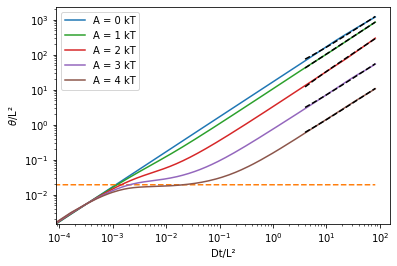
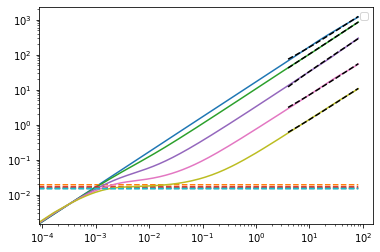
Revert "msd_defaveri+hist+LJ"
This reverts commit 6105f52bd06bb4afc6f391055cd4669590beac69.

Changed region(s): [[0.0, 0.0, 1.0, 0.9722], [0.9263, 0.1389, 0.9553, 0.1667], [0.8974, 0.1667, 0.9263, 0.1944]]

diff --git a/langevin_simu/Periodic Potential/historgram_periodic_potential.py b/langevin_simu/Periodic Potential/historgram_periodic_potential.py
@@ -3,7 +3,7 @@ import matplotlib.pyplot as plt
 import numpy as np
 import sys
 #sys.path.append('/home/antonin/Documents/GitHub/IDIL_Internship_BFM_Langevin_modeling/langevin_simu/')
-from Class_particle_v2_periodic_potential import *
+from Class_particle_v2_drift_diffusion import *
 from scipy.stats import norm
 from scipy.optimize import curve_fit
 
@@ -21,7 +21,7 @@ def generate_mean_traj(N,L,A,torque):
 
 
 def get_trajs(amplitude,dt):
-    trajs = np.load(f'trajectories_10000000points_amplitude_{amplitude}kT_dt_{dt}_torque_0kT.npy')                  
+    trajs = np.load(f'trajectories_10000points_amplitude_0kT_dt_1e-05_torque_20kT.npy')                  
     return trajs
 
 def hist_at_t(amplitude,dt,t):
@@ -30,47 +30,80 @@ def hist_at_t(amplitude,dt,t):
     return matrix_t
 
 
-def total_hist(amplitude,dt):
-    """
-    Combine the whole histogram of every traj in a single one : meaningless
-
-    Parameters
-    ----------
-    amplitude : TYPE
-        DESCRIPTION.
-    dt : TYPE
-        DESCRIPTION.
-
-    Returns
-    -------
-    None.
-
-    """
+def plot_hist(amplitude,dt,i):
     trajs = get_trajs(amplitude,dt)
-    num_bins = 10000
-    accumulated_hist = np.zeros(num_bins)
-    for traj in trajs:
-        hist, _ = np.histogram(traj, bins=num_bins,range=(-np.pi, np.pi))
-        accumulated_hist += hist
-    
-    mean_hist = accumulated_hist*num_bins / (len(trajs)*len(trajs[0]))
-    bins_space = np.linspace(-np.pi,np.pi,num_bins)
-    plt.plot(bins_space,mean_hist)
+    traj = trajs[i]
+    plt.hist(traj,bins = 2600,density=True)
     plt.xlabel('angle [rad]')
     plt.ylabel('density')
     plt.show()
-    
-def hist_at_t(t):
-    trajs = np.load('trajectories_1000000,nb_traj_1000points_amplitude_6kT,frequency_10_dt_0.001_torque_0kT.npy')
-    matrix_t = [trajs[i][t]  for i in range(len(trajs))]
-    return matrix_t
 
-def plot_hist(t):
-    plt.hist(hist_at_t(t),bins = 200,density=True)
-    plt.title(f'Histogram of positions at t={t}ms over 1000 realisations')
-    plt.xlabel('angle [rad]')
-    plt.ylabel('density')
-    plt.show()
+def normal_theory(mu,t,x):
+    part = DiffusionSimulation2()
+    D = part.rotational_einstein_diff
+    t = t*1e-5
+    p_theory = (1/np.sqrt(4*np.pi*D*t))*np.exp(- ((x - mu)**2)/(4*D*t))
+    return p_theory
+
+def normal_longtime_correction(mu,t,x):
+    part = DiffusionSimulation2()
+    D = part.rotational_einstein_diff
+    y = part.rotational_drag
+    t = t*1e-5
+    p_theory = np.sqrt(y/(2*np.pi*D))*np.exp(- (y*x**2)/(2*D))
+    return p_theory
+
+def normal_theory_full_correction(mu,t,x):
+    part = DiffusionSimulation2(dt=1e-5)
+    D = part.rotational_einstein_diff
+    y = part.rotational_drag*1000
+    t = t*1e-5
+    interm = y/(2*D*(1-np.exp(-2*y*t)))
+    p_theory = np.sqrt(y/(2*np.pi*D*(1-np.exp(-2*y*t))))*np.exp(-interm*x**2)
+    return p_theory
+
+                             
+t = 8000
+matrix_at_t = hist_at_t(0,1e-5,t)
+
+plt.hist(matrix_at_t,bins = 150,density=True)
+(mu, sigma) = norm.fit(matrix_at_t)
+xmin, xmax = plt.xlim()
+x = np.linspace(xmin, xmax, 100)
+p = norm.pdf(x, mu, sigma)
+plt.plot(x, p, 'k', linewidth=2, label='Fitted Normal Distribution')    
     
-# A faire: 10000 realisations à 2kT, trouver comment fixer la densité à 1
-    
+plt.plot(x,normal_theory(mu,t,x), linestyle='--', color='red', label='Theoretical Normal Distribution')
+
+plt.title(f'Histogram of positions at t={t*1e-5:.3f}s over 10000 realisations')
+plt.xlabel('angle [rad]')
+plt.ylabel('density')
+plt.legend()
+plt.show()
+
+
+
+"""
+fig, axs = plt.subplots(2, 2, figsize=(10, 10))
+
+times = [0, 100, 1000, 10000]  # Adjust time values as needed
+for i, t in enumerate(times):
+    matrix_at_t = hist_at_t(0, 1e-5, t)
+    ax = axs[i//2, i%2]  # Get the current axis
+    ax.hist(matrix_at_t, bins=100, density=True)
+    (mu, sigma) = norm.fit(matrix_at_t)
+    xmin, xmax = ax.get_xlim()
+    x = np.linspace(xmin, xmax, 1000)
+    p = norm.pdf(x, mu, sigma)
+    ax.plot(x, p, 'k', linewidth=2, label='Fitted Normal Distribution')
+    #ax.plot(x, normal_theory(mu, t, x), linestyle='--', color='red', label='Theoretical Normal Distribution')
+    ax.plot(x, normal_theory_full_correction(mu, t, x), linestyle='--', color='green', label='Corrected Normal Distribution')
+    ax.plot(x, normal_longtime_correction(mu, t, x), linestyle='--', color='orange', label='normal_longtime_correction Distribution')
+    ax.set_title(f'Histogram at t={t*1e-5:.3f}s over 10000 realisations')
+    ax.set_xlabel('angle [rad]')
+    ax.set_ylabel('density')
+    ax.legend()
+
+plt.tight_layout()
+plt.show()
+"""

diff --git a/langevin_simu/Periodic Potential/Class_particle_v2_periodic_potential.py b/langevin_simu/Periodic Potential/Class_particle_v2_periodic_potential.py
@@ -87,7 +87,7 @@ class DiffusionSimulation2:
         return np.array(msd)  
     
     
-    def run_parallel(self, repetitions=None, n_jobs=5, npts = None, Amplitude = 0, torque = 0):
+    def run_parallel(self, repetitions=10, n_jobs=5, npts = None, Amplitude = 0, torque = 0):
         ''' parallel computations of generate_traj() 
             parallel_out is a list (of len repetitions) of arrays "x(t)" (each of len npts)
         '''
@@ -96,7 +96,7 @@ class DiffusionSimulation2:
         t0 = time.time()
         parallel_out = Parallel(n_jobs=n_jobs)(delayed(self.main_traj)(N = npts,A = Amplitude) for i in range(repetitions))
         print(f'run_serial_parallel(): Parallel done in {time.time() - t0:.1f} s')
-        np.save(f'trajectories_{npts:.0f},nb_traj_{repetitions}points_amplitude_{Amplitude:.0f}kT,frequency_{self.frequency}_dt_{self.dt_s}_torque_{torque:.0f}kT',parallel_out)
+        np.save(f'trajectories_{npts:.0f}points_amplitude_{Amplitude:.0f}kT_dt_{self.dt_s}_torque_{torque:.0f}kT',parallel_out)
         return parallel_out
     
     
@@ -196,12 +196,8 @@ def store_msd_given_Amplitude(Ampli):
         
         
 def qth_moment(q,t,D_eff):
-    t *= (0.1648)/(2*np.pi/26)**2
-    return((2**q)/(np.sqrt(np.pi)))*(D_eff*t)**(q/2)*scipy.special.gamma((1+q)/2)
+    return((2**q)/(np.sqrt(np.pi)))*(D_eff*t)**(q/2)*np.math.factorial((1+q)/2)
     
-def second_moment(t,D_eff):
-    return(4/(np.sqrt(np.pi)))*(D_eff*t)*scipy.special.gamma(3/2)
-
 def generate_theory_msd(absciss,D_fit):
     theoretical_msd = []
     for t in absciss:
@@ -213,7 +209,7 @@ def asdefaveri_msd(A,dt):
     p = DiffusionSimulation2(dt=dt)
     a = 2*np.pi/p.frequency
     D = p.rotational_einstein_diff           
-    D_eff = p.lifson_jackson_noforce(A)
+    D_eff = p.lifson_jackson_noforce(5)
     
     def defaveri_stationary(A):
         X = np.linspace(0,a,1000)
@@ -239,8 +235,29 @@ def asdefaveri_msd(A,dt):
     
     popt, pcov = scipy.optimize.curve_fit(linear_D, absciss_window, norm_msd_window,)
     D_fit, shift = popt[0], popt[1]
-    print('D_fit = ',D_fit*2*D)
+    print('D_fit = ',D_fit)
     print('D_eff = ',D_eff)
     stationary_state = defaveri_stationary(A) 
-    return absciss,norm_msd,D_fit,D_eff,shift,stationary_state,a
+    return absciss,norm_msd,D_fit,shift,stationary_state,a
+
+def plot_msd_asdefvari(A,dt):
+    absciss,norm_msd,D_fit,shift,stationary_state,a = asdefaveri_msd(A,dt)
+    
+    def linear_D(t,D,shift):
+        return (2*D*t + shift)/(a*a)
+    
+    plt.loglog(absciss,norm_msd)
+    plt.loglog(absciss,stationary_state*np.ones(len(absciss)),linestyle ='--',)
+    #plt.loglog(absciss[int(len(absciss)/2):],linear_D(absciss,D_eff,shift)[int(len(absciss)/2):],linestyle ='--',color='green')
+    frac = 1.5
+    plt.loglog(absciss,generate_theory_msd(absciss,D_fit),color='red')
+    plt.loglog(absciss[int(len(absciss)/frac):],linear_D(absciss,D_fit,shift)[int(len(absciss)/frac):],linestyle ='--',color='black') #[int(len(absciss)/4):]
+
+for A in range(0,5):
+    plot_msd_asdefvari(A,0.0005)
+
+plt.legend()
+plt.show()
+
+
 

diff --git a/langevin_simu/Periodic Potential/Comparing time step.py b/langevin_simu/Periodic Potential/Comparing time step.py
@@ -35,8 +35,6 @@ def store_msd_given_Amplitude(Ampli):
         np.save(f't,msd,dt={p.dt_s},{Ampli}kT',[time_axis*dt_list[counter],mean_msd])
         counter += 1
 
-def linear_D(t,D,shift):
-    return 2*D*t + shift
 
 def compare_dt_msd_given_amplitude(Ampli):
     dt_list = [0.0001, 0.0005, 0.001, 0.005, 0.01, 0.05]
@@ -58,30 +56,11 @@ def compare_dt_msd_given_amplitude(Ampli):
     
     global_msd = []
     global_time = []
-    
-    
     for j in ascending_mother:
         global_msd.append(j[1])
         global_time.append(j[0])
-        
-    p_opt, pcov = scipy.optimize.curve_fit(linear_D,global_time,global_msd) 
-    D_fit = p_opt[0]
-    print(D_fit)
-    shift = p_opt[1]
-    print(shift)
-    print(type(global_time))
-    global_time = np.array(global_time)
-    y = linear_D(global_time, D_fit, shift)
-    plt.plot(global_time,y)
     plt.scatter(global_time,global_msd, s = 0.1)
     plt.xscale('log')
     plt.yscale('log')
     plt.xlabel('time [s]')
     plt.ylabel('mean square displacement')
-    
-    
-    
-    
-    
-    
-    
